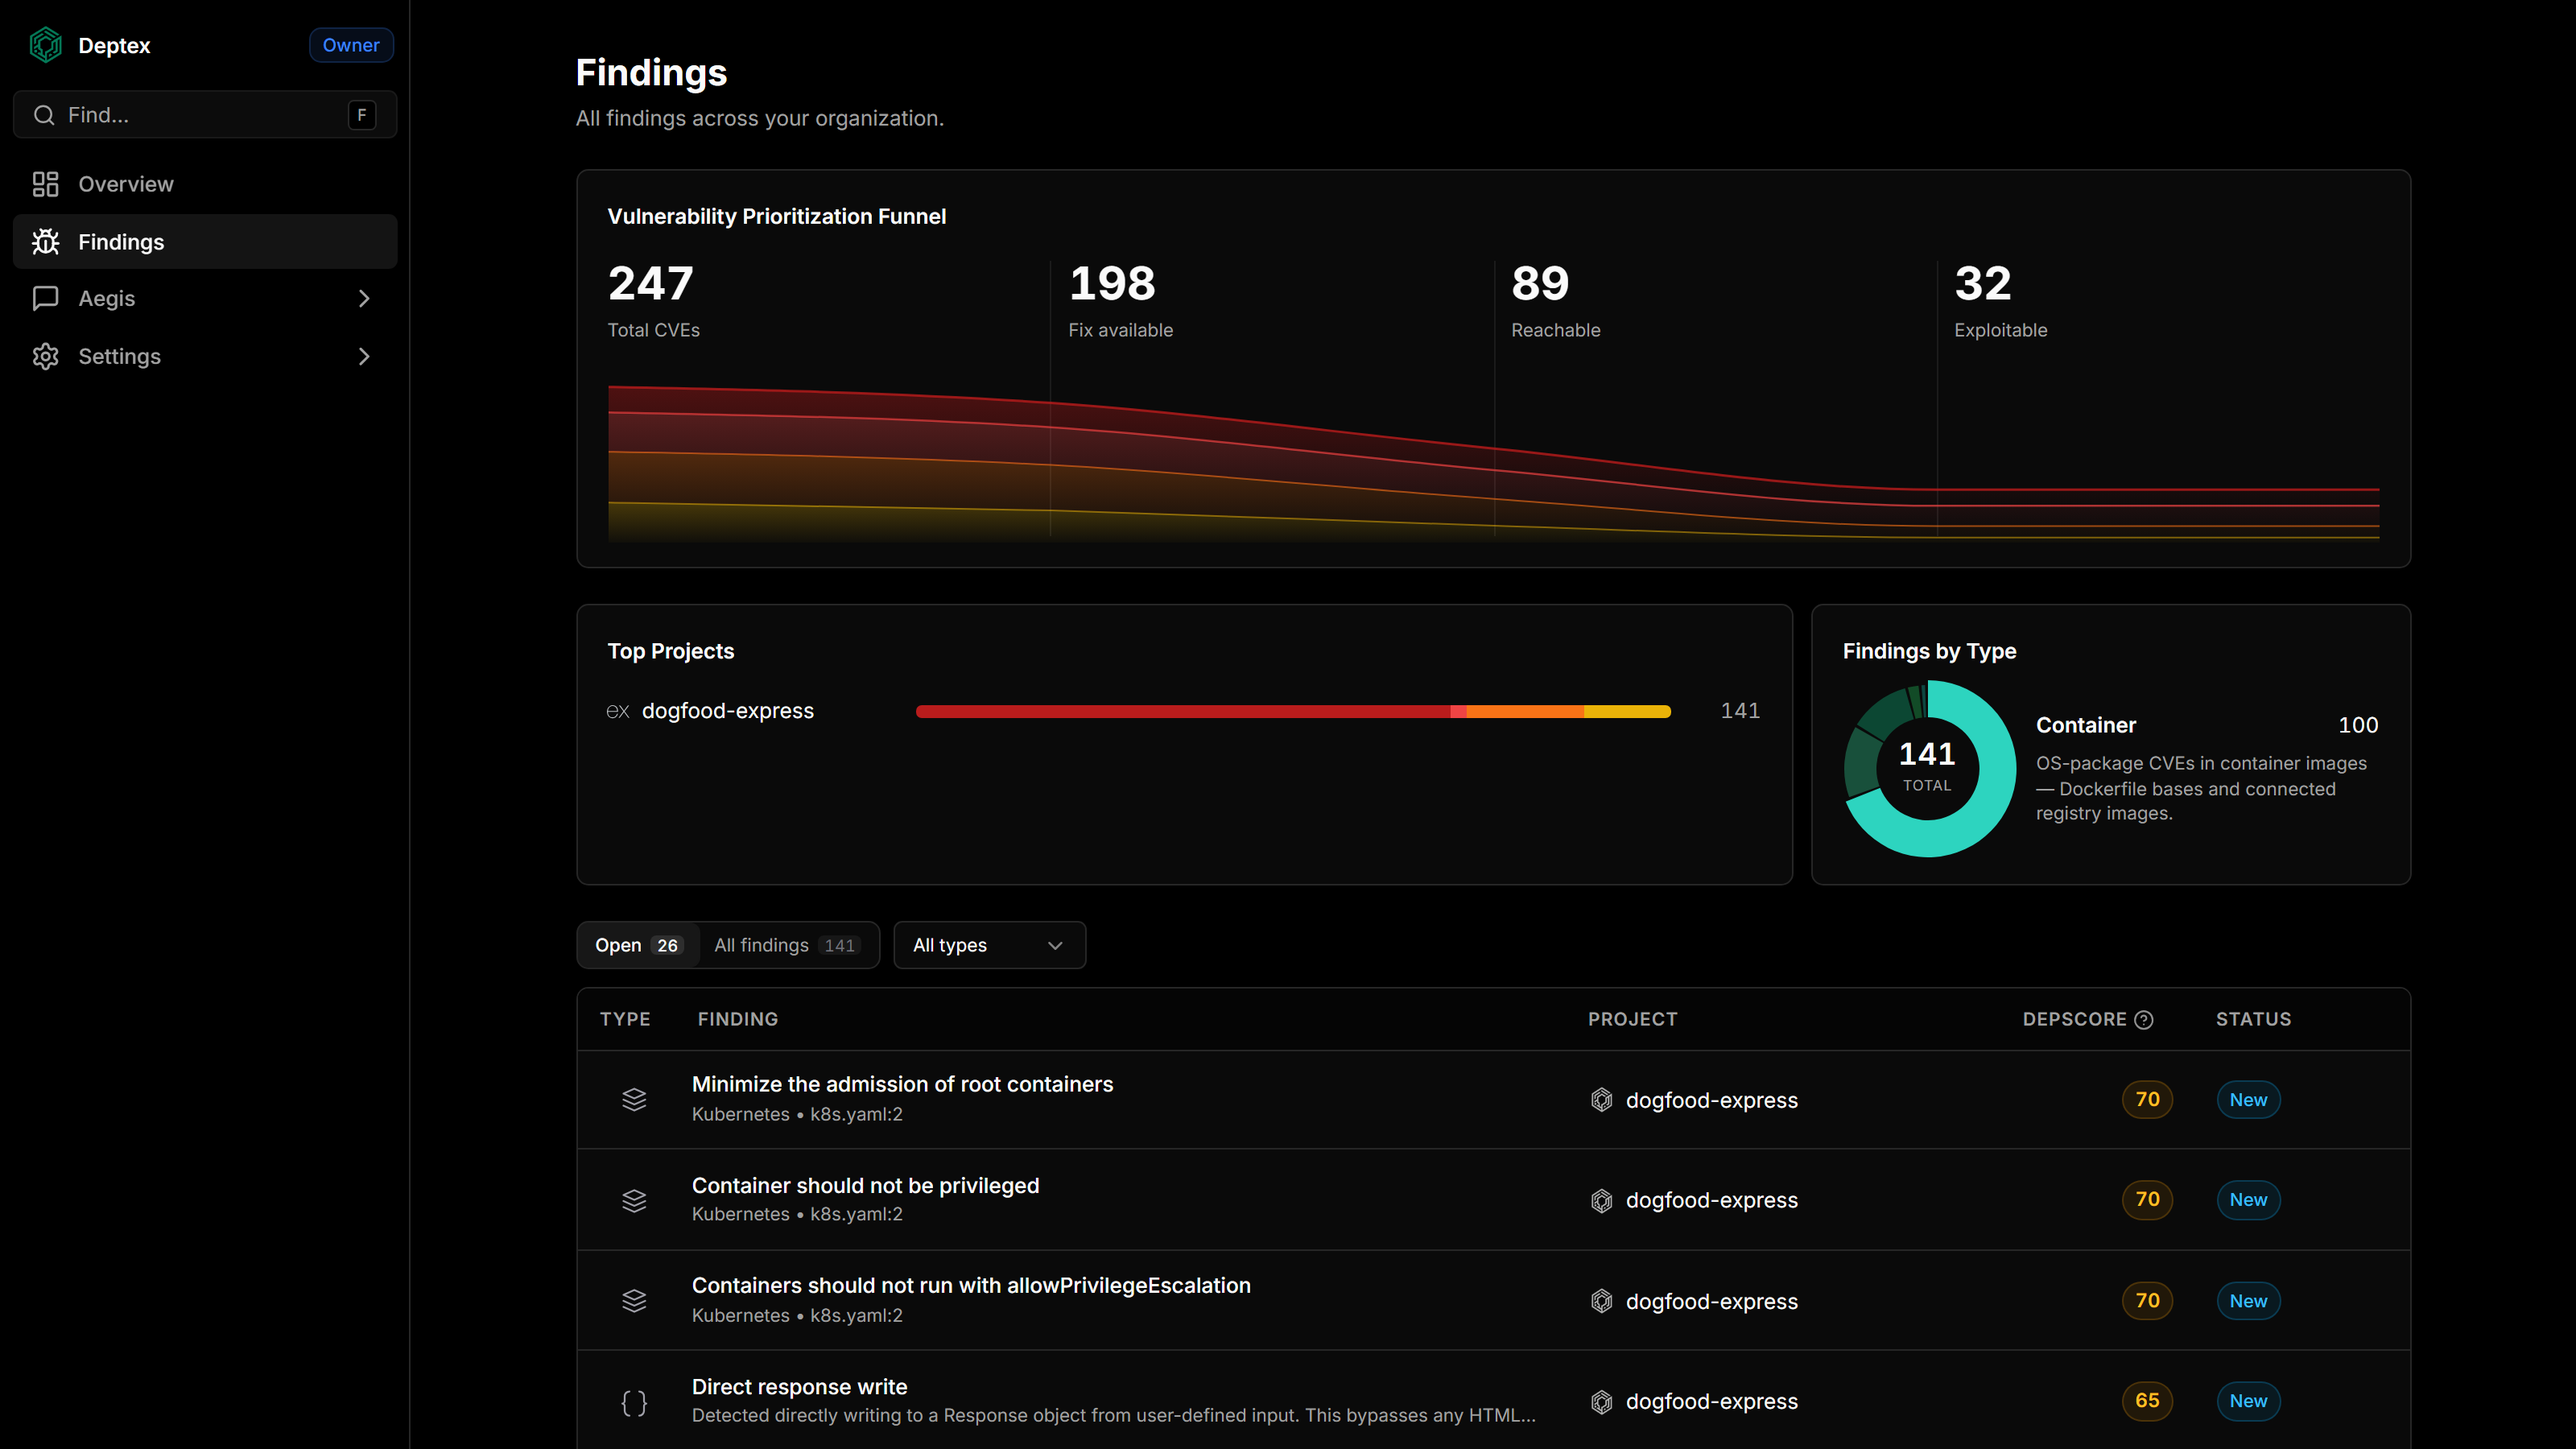
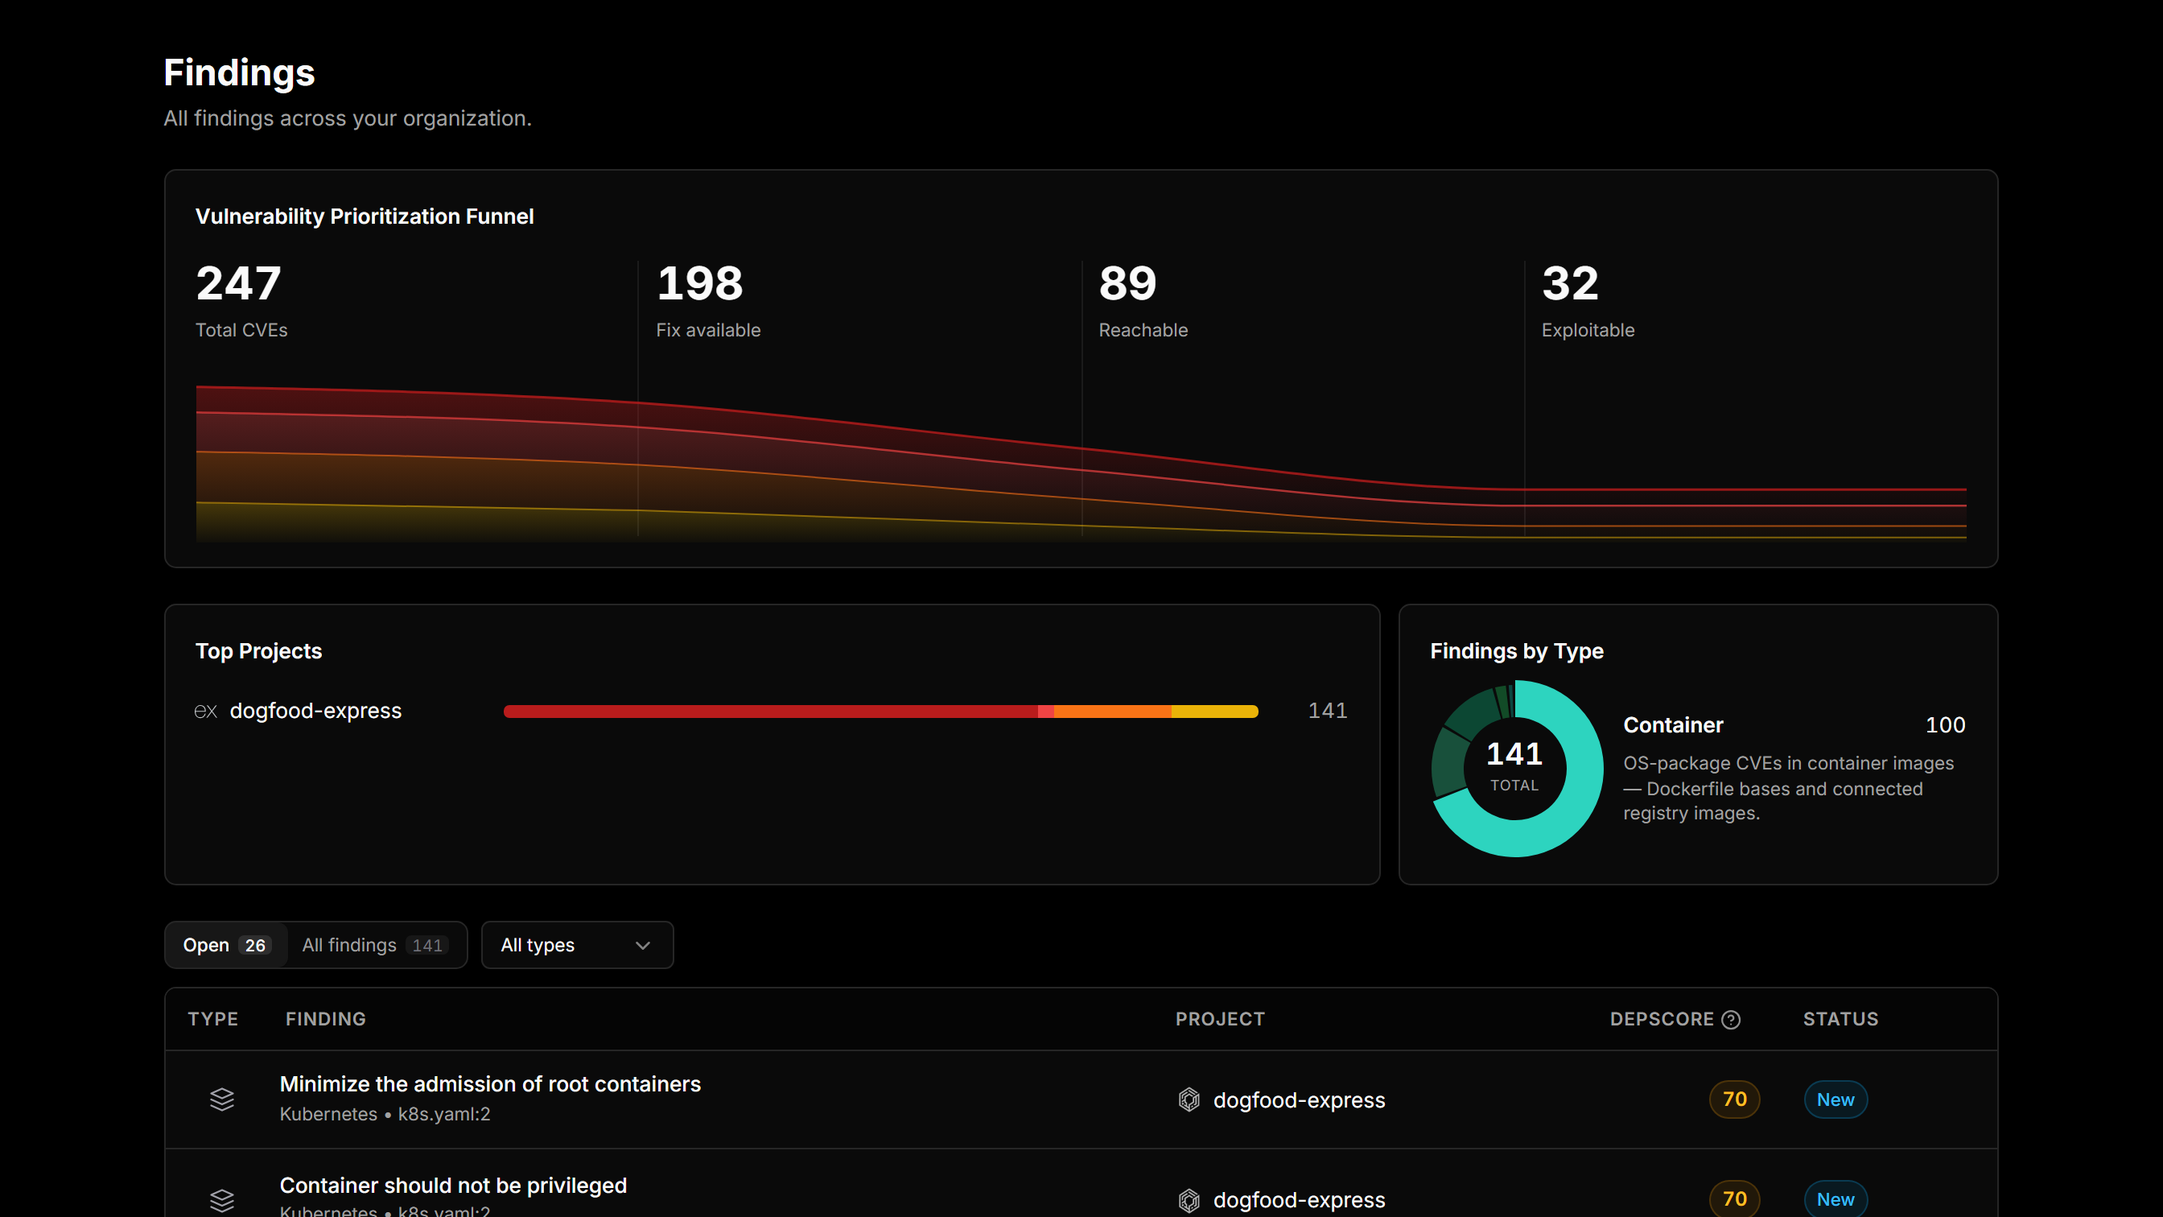
feat(landing): crop sidebar from findings capture; enlarge Aegis plan card to 380px

diff --git a/frontend/src/components/landing/HeroSection.tsx b/frontend/src/components/landing/HeroSection.tsx
@@ -72,7 +72,7 @@ export default function HeroSection() {
               className="w-full rounded-xl border border-border shadow-[0_8px_40px_-8px_rgba(0,0,0,0.7)]"
             />
             {/* HERO-2: the Aegis fix plan — "Aegis writes the fix" */}
-            <div className="relative mx-6 -mt-8 overflow-hidden rounded-xl border border-[#333] shadow-[0_16px_48px_-4px_rgba(0,0,0,0.9)] sm:absolute sm:-bottom-10 sm:-right-8 sm:mx-0 sm:mt-0 sm:w-[300px]">
+            <div className="relative mx-6 -mt-8 overflow-hidden rounded-xl border border-[#333] shadow-[0_16px_48px_-4px_rgba(0,0,0,0.9)] sm:absolute sm:-bottom-12 sm:-right-10 sm:mx-0 sm:mt-0 sm:w-[380px]">
               <img
                 src="/images/landing/hero-aegis-plan.png"
                 alt="Aegis fix plan: patch CVE-2021-23337 by bumping lodash — issue, plan, to-dos, and verification steps"
